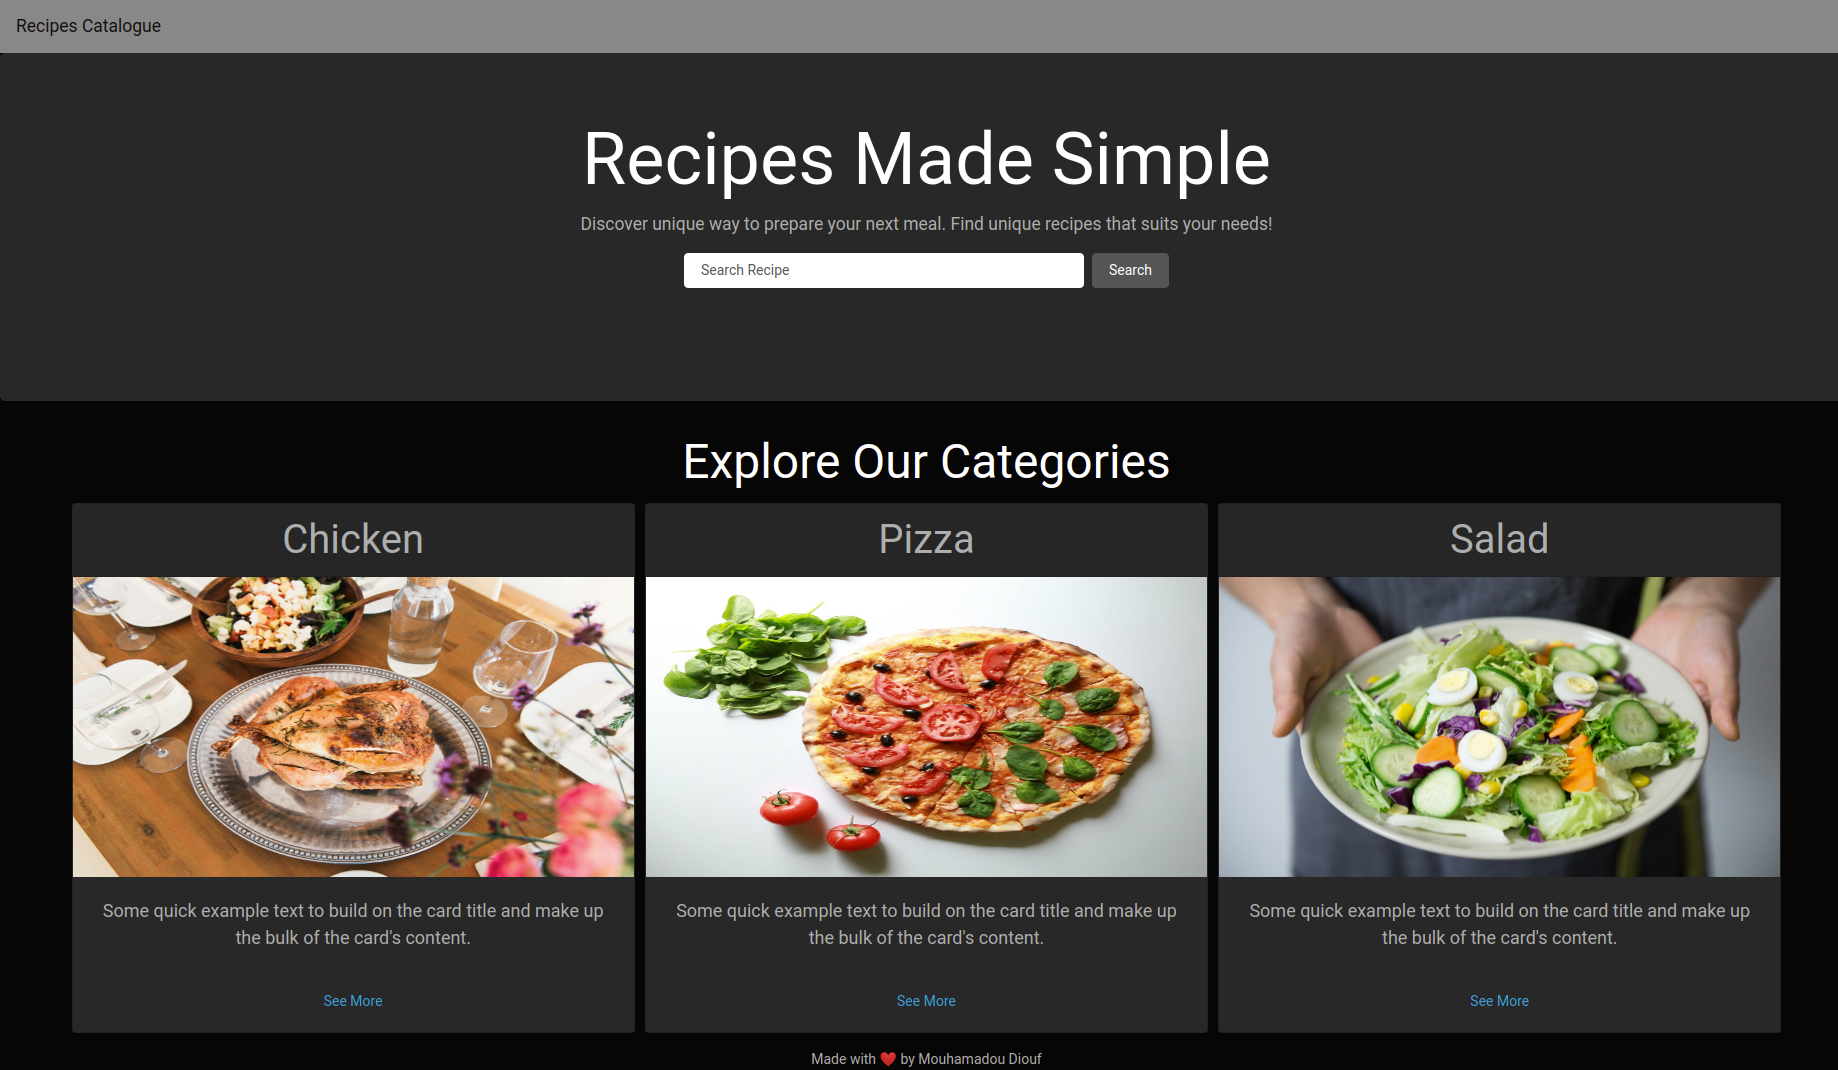
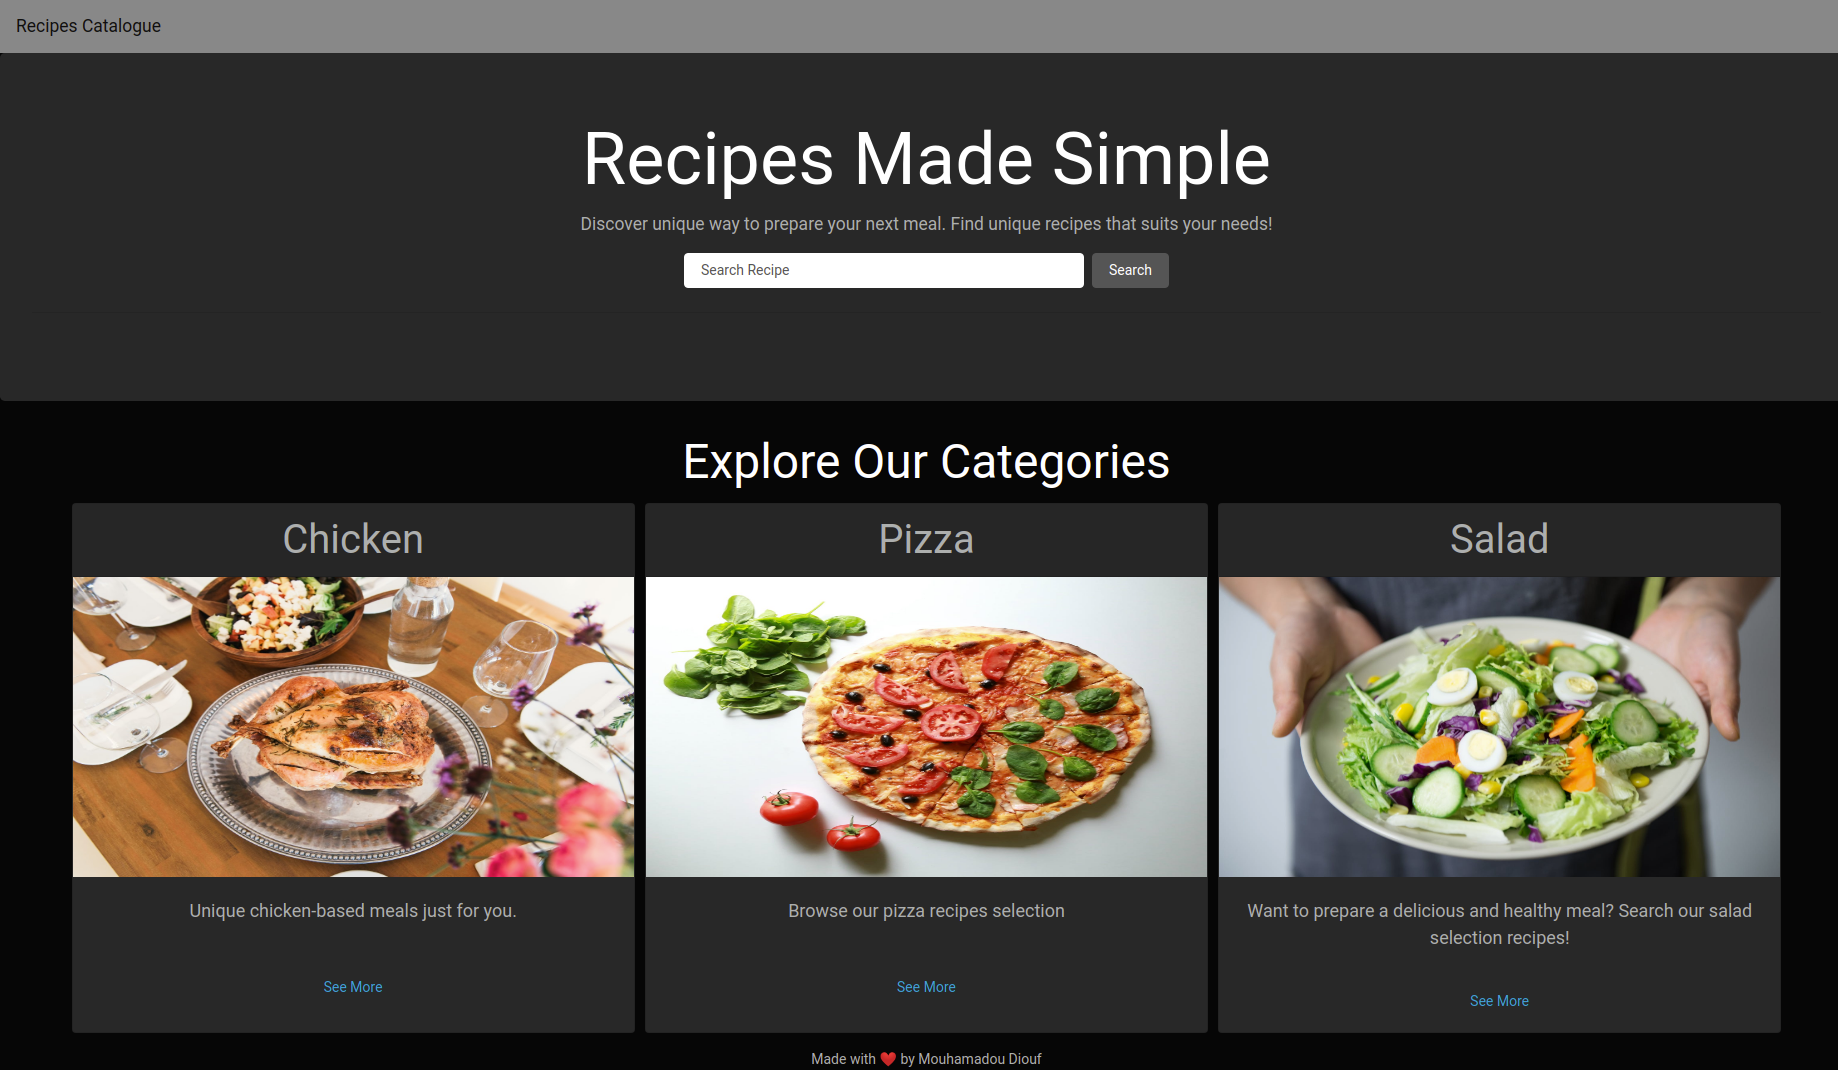
Updtatind the app screenshot

diff --git a/src/containers/Categories/Category.js b/src/containers/Categories/Category.js
@@ -6,7 +6,7 @@ import './Category.css';
 import { selectRecipe } from '../../actions/actions';
 
 function Category({
-  name, alt, image, search, findRecipes,
+  name, alt, image, search, findRecipes, description,
 }) {
   return (
     <Route>
@@ -14,10 +14,7 @@ function Category({
         <h3 className="card-header">{name}</h3>
         <img src={image} alt={alt} />
         <div className="card-body">
-          <p className="card-text">
-            {` Some quick example text to build on the card title and make up the
-              bulk of the card's content.`}
-          </p>
+          <p className="card-text">{description}</p>
         </div>
         <div className="card-body">
           <Link
@@ -39,6 +36,7 @@ Category.propTypes = {
   image: Proptypes.string.isRequired,
   search: Proptypes.string.isRequired,
   findRecipes: Proptypes.func.isRequired,
+  description: Proptypes.string.isRequired,
 };
 const mapDispatchToProps = (dispatch) => ({
   findRecipes: (recipe) => dispatch(selectRecipe(recipe)),

diff --git a/src/containers/Categories/Categories.js b/src/containers/Categories/Categories.js
@@ -42,9 +42,22 @@ function Categories({ isFetching, recipes }) {
             image={chicken}
             alt="chicken"
             search="chicken"
+            description="Unique chicken-based meals just for you."
           />
-          <Category name="Pizza" image={pizza} alt="pizza" search="pizza" />
-          <Category name="Salad" image={salad} alt="salad" search="salad" />
+          <Category
+            name="Pizza"
+            image={pizza}
+            alt="pizza"
+            search="pizza"
+            description="Browse our pizza recipes selection"
+          />
+          <Category
+            name="Salad"
+            image={salad}
+            alt="salad"
+            search="salad"
+            description="Want to prepare a delicious and healthy meal? Search our salad selection recipes!"
+          />
         </div>
       </>
     );
